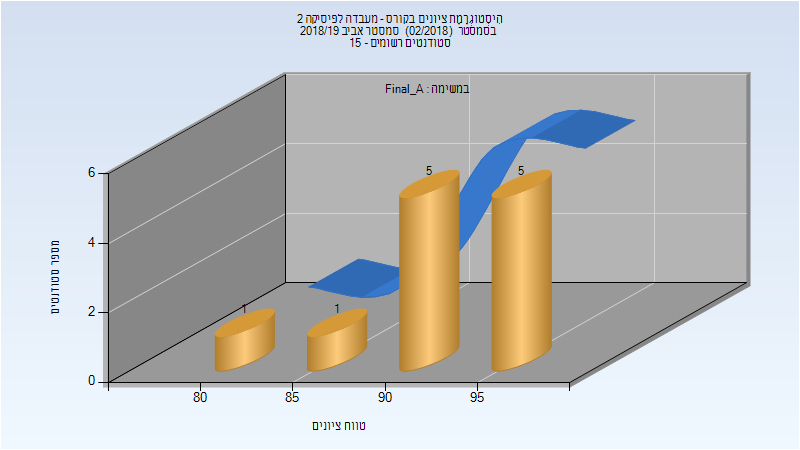
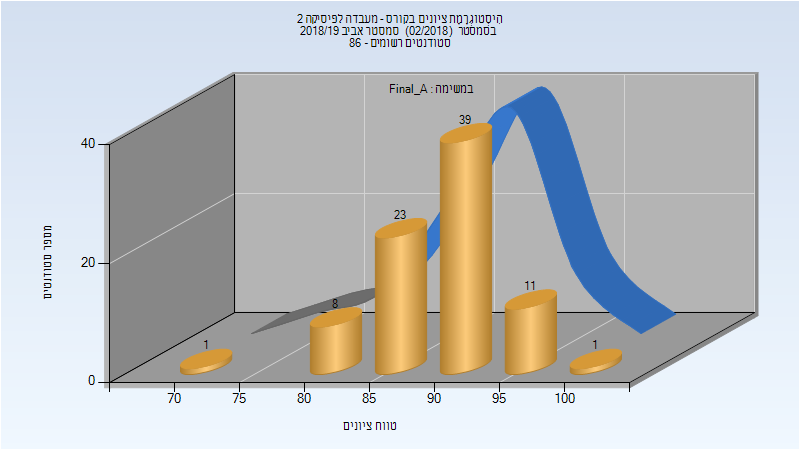
Deploy michael-maltsev/technion-histograms to github.com/michael-maltsev/technion-histograms.git:gh-pages

diff --git a/034406/index.html b/034406/index.html
@@ -152,6 +152,73 @@
 </tr>
 </tbody>
 </table>
+<h2>חורף 2019-2020</h2>
+<table>
+<thead>
+<tr>
+<th>איש סגל</th>
+<th>תפקיד</th>
+</tr>
+</thead>
+<tbody>
+<tr>
+<td>שניידרמן דמיטרי</td>
+<td>מדריך מעבדה - עם הרשאות מרצה אחראי</td>
+</tr>
+</tbody>
+</table>
+<h3>סופי מועד א'</h3>
+<p><img src="201901/Final_A.png" alt="201901 Final_A" /></p>
+<table>
+<thead>
+<tr>
+<th>סטודנטים</th>
+<th>עברו/נכשלו</th>
+<th>אחוז עוברים</th>
+<th>ציון מינימלי</th>
+<th>ציון מקסימלי</th>
+<th>ממוצע</th>
+<th>חציון</th>
+</tr>
+</thead>
+<tbody>
+<tr>
+<td>14</td>
+<td>14/0</td>
+<td>100</td>
+<td>91</td>
+<td>100</td>
+<td>94.857</td>
+<td>94</td>
+</tr>
+</tbody>
+</table>
+<h3>סופי</h3>
+<p><img src="201901/Finals.png" alt="201901 Finals" /></p>
+<table>
+<thead>
+<tr>
+<th>סטודנטים</th>
+<th>עברו/נכשלו</th>
+<th>אחוז עוברים</th>
+<th>ציון מינימלי</th>
+<th>ציון מקסימלי</th>
+<th>ממוצע</th>
+<th>חציון</th>
+</tr>
+</thead>
+<tbody>
+<tr>
+<td>14</td>
+<td>14/0</td>
+<td>100</td>
+<td>91</td>
+<td>100</td>
+<td>94.857</td>
+<td>94</td>
+</tr>
+</tbody>
+</table>
 <h2>אביב 2020</h2>
 <table>
 <thead>

diff --git a/114082/index.html b/114082/index.html
@@ -291,16 +291,12 @@
 </thead>
 <tbody>
 <tr>
-<td>פריזאנט יוליה</td>
+<td>קניגל עמית</td>
 <td>מרצה - אחראי מקצוע</td>
 </tr>
 <tr>
-<td>קאו יאנג</td>
-<td>מרצה</td>
-</tr>
-<tr>
-<td>ניטישינסקי מיכאל</td>
-<td>מרצה</td>
+<td>פריזאנט יוליה</td>
+<td>סגל מנהלי - עם הרשאות מרצה אחראי</td>
 </tr>
 </tbody>
 </table>
@@ -320,13 +316,13 @@
 </thead>
 <tbody>
 <tr>
-<td>12</td>
-<td>12/0</td>
+<td>83</td>
+<td>83/0</td>
 <td>100</td>
-<td>84.33</td>
-<td>98</td>
-<td>93.15</td>
-<td>93.44</td>
+<td>72.18</td>
+<td>100.25</td>
+<td>90.761</td>
+<td>91.14</td>
 </tr>
 </tbody>
 </table>
@@ -346,13 +342,13 @@
 </thead>
 <tbody>
 <tr>
-<td>14</td>
-<td>14/0</td>
+<td>85</td>
+<td>85/0</td>
 <td>100</td>
-<td>83</td>
-<td>98</td>
-<td>92.214</td>
-<td>92.5</td>
+<td>72</td>
+<td>100</td>
+<td>90.706</td>
+<td>91</td>
 </tr>
 </tbody>
 </table>

diff --git a/114082/README.md b/114082/README.md
@@ -90,9 +90,8 @@
 
 | איש סגל | תפקיד |
 | ---- | ---- |
-| פריזאנט יוליה | מרצה - אחראי מקצוע |
-| קאו יאנג | מרצה |
-| ניטישינסקי מיכאל | מרצה |
+| קניגל עמית | מרצה - אחראי מקצוע |
+| פריזאנט יוליה | סגל מנהלי - עם הרשאות מרצה אחראי |
 
 ### סופי מועד א'
 
@@ -100,7 +99,7 @@
 
 | סטודנטים | עברו/נכשלו | אחוז עוברים | ציון מינימלי | ציון מקסימלי | ממוצע | חציון |
 | ---- | ---- | ---- | ---- | ---- | ---- | ---- |
-| 12 | 12/0 | 100 | 84.33 | 98 | 93.15 | 93.44 |
+| 83 | 83/0 | 100 | 72.18 | 100.25 | 90.761 | 91.14 |
 
 ### סופי
 
@@ -108,7 +107,7 @@
 
 | סטודנטים | עברו/נכשלו | אחוז עוברים | ציון מינימלי | ציון מקסימלי | ממוצע | חציון |
 | ---- | ---- | ---- | ---- | ---- | ---- | ---- |
-| 14 | 14/0 | 100 | 83 | 98 | 92.214 | 92.5 |
+| 85 | 85/0 | 100 | 72 | 100 | 90.706 | 91 |
 
 ## חורף 2019-2020
 

diff --git a/034406/README.md b/034406/README.md
@@ -46,6 +46,28 @@
 | ---- | ---- | ---- | ---- | ---- | ---- | ---- |
 | 17 | 17/0 | 100 | 92 | 98 | 94.882 | 95 |
 
+## חורף 2019-2020
+
+| איש סגל | תפקיד |
+| ---- | ---- |
+| שניידרמן דמיטרי | מדריך מעבדה - עם הרשאות מרצה אחראי |
+
+### סופי מועד א'
+
+![201901 Final_A](201901/Final_A.png)
+
+| סטודנטים | עברו/נכשלו | אחוז עוברים | ציון מינימלי | ציון מקסימלי | ממוצע | חציון |
+| ---- | ---- | ---- | ---- | ---- | ---- | ---- |
+| 14 | 14/0 | 100 | 91 | 100 | 94.857 | 94 |
+
+### סופי
+
+![201901 Finals](201901/Finals.png)
+
+| סטודנטים | עברו/נכשלו | אחוז עוברים | ציון מינימלי | ציון מקסימלי | ממוצע | חציון |
+| ---- | ---- | ---- | ---- | ---- | ---- | ---- |
+| 14 | 14/0 | 100 | 91 | 100 | 94.857 | 94 |
+
 ## אביב 2020
 
 | איש סגל | תפקיד |
